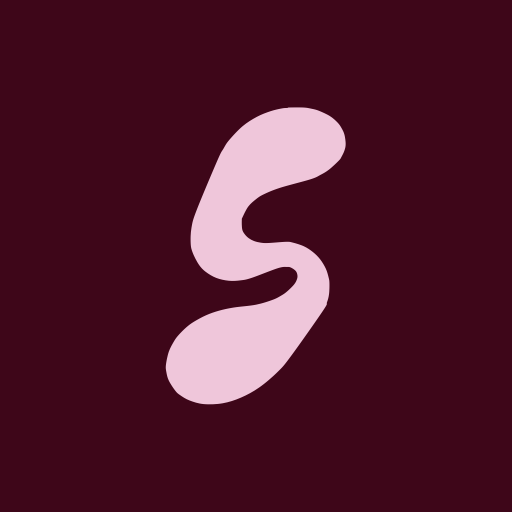
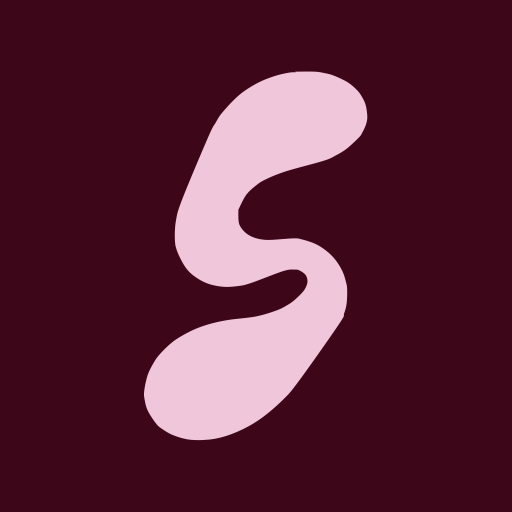
Alinear el contenido, agrandar el isotipo y suavizar el neutro
Cuatro ajustes pedidos tras revisar el rediseño.

Contenedor único. El navbar usaba 80rem y el hero 72rem, así que al centrarse
ambos el contenido del hero arrancaba 64px más adentro que el logotipo. En vez
de igualar el número en cada archivo —que es justo lo que permitió la deriva—
el ancho y el gutter se declaran una sola vez en `.contenedor` y todas las
secciones lo consumen. La flecha de bajar pasa a vivir dentro del contenedor:
colgaba de la sección a sangre y se pegaba al borde del viewport.

Neutro. El crema #F6EECF de la Propuesta 02 resultaba ácido en superficies
grandes; se sustituye por la arena #EEDABC de la Propuesta 01. Se conservan
burdeos, rosa y periwinkle: cambiar la paleta entera habría eliminado el
periwinkle, que es el color del isotipo. Sobre la arena, el vino da 12.36:1 y
el vino-suave 6.92:1.

Isotipo del hero. Gana bastante presencia, y su posición se escalona en cuatro
tramos en lugar de tres. Hacía falta un breakpoint en 1280px: por debajo el
contenedor todavía crece con el viewport y el titular llega hasta el centro,
donde la forma lo alcanzaba y dejaba el final del texto en rosa sobre
periwinkle (1.71:1). Holgura mínima medida: 38px a 768px.

En móvil la forma asomaba tan poco que no se leía como parte de la
composición; ahora entra en cuadro por el pie, por debajo del CTA.

Favicon. La "S" pasa del 58% al 72% de la caja: al tamaño real de una pestaña
la versión anterior se perdía.

Changed region(s): [[0.2812, 0.125, 0.7188, 0.875]]

diff --git a/styles/globals.css b/styles/globals.css
@@ -1,19 +1,22 @@
 @import "tailwindcss";
 
 /*
- * Paleta de la Propuesta 02 de identidad (Not Alias).
+ * Paleta de la Propuesta 02 de identidad (Not Alias), con el neutro tomado de
+ * la Propuesta 01.
  * Los hex se muestrearon del arte original, no se estimaron.
  * Los mismos valores viven en styles/_tokens.scss para los SCSS modules.
  */
 @theme {
   --color-vino: #3e0619;
   --color-rosa: #efc6da;
-  --color-crema: #f6eecf;
+  /* Arena de la Propuesta 01: el crema amarillento de la 02 resultaba ácido
+     en superficies grandes. */
+  --color-crema: #eedabc;
   --color-azul: #abbfd8;
 
   /*
    * El periwinkle es color de FORMA, nunca de texto sobre fondos claros:
-   * da 1.71:1 sobre rosa y 2.24:1 sobre crema, así que ni siquiera pasa el
+   * da 1.71:1 sobre rosa y 1.91:1 sobre la arena, así que ni siquiera pasa el
    * mínimo de texto grande. Sobre vino sí es legible (6.48:1).
    */
   --color-periwinkle: #9199f4;
@@ -24,6 +27,32 @@
 
   --font-titulo: var(--fuente-titulo), Georgia, serif;
   --font-cuerpo: var(--fuente-cuerpo), system-ui, sans-serif;
+}
+
+@layer components {
+  /*
+   * Contenedor único de la página.
+   *
+   * Todo lo que deba alinearse con el logotipo del navbar pasa por aquí. Antes
+   * cada sección repetía su propio `max-w-*` y su propio padding, y bastó con
+   * que el hero declarara 72rem frente a las 80rem del navbar para que el
+   * contenido arrancara 64px más adentro. Con una sola declaración esa deriva
+   * no puede volver a ocurrir.
+   *
+   * El padding lateral vive aquí y no en la sección, para que el color de
+   * fondo siga llegando a sangre.
+   */
+  .contenedor {
+    margin-inline: auto;
+    max-inline-size: 80rem;
+    padding-inline: 1.25rem;
+  }
+
+  @media (min-width: 48rem) {
+    .contenedor {
+      padding-inline: 2.5rem;
+    }
+  }
 }
 
 @layer base {

diff --git a/components/sections/Hero.module.scss b/components/sections/Hero.module.scss
@@ -27,21 +27,35 @@
    * columna libre a la derecha, así que se retira al pie y sale por el borde;
    * sólo a partir de lg, cuando sí sobra ancho, ocupa el costado completo.
    */
-  right: -30%;
-  bottom: -4%;
-  height: 38%;
+  // En móvil se ancla al pie y entra bastante en cuadro: antes asomaba tan
+  // poco que no se leía como parte de la composición.
+  right: -14%;
+  bottom: -2%;
+  height: 34%;
 
   @include md {
     top: 50%;
-    right: -16%;
+    right: -18%;
     bottom: auto;
-    height: 62%;
+    height: 68%;
     transform: translateY(-50%);
   }
 
   @include lg {
-    right: -2%;
-    height: 86%;
+    right: -16%;
+    height: 88%;
+  }
+
+  /*
+   * A partir de 1280px el contenedor deja de crecer y el sobrante se reparte
+   * a los lados, así que aquí sí hay sitio para que la forma ocupe casi todo
+   * el alto sin acercarse al titular. Por debajo se va retirando: entre 1024 y
+   * 1280 el texto llega hasta el centro y la "S" lo alcanzaría, dejando el
+   * final del titular en rosa sobre periwinkle (1.71:1).
+   */
+  @include xl {
+    right: -6%;
+    height: 104%;
   }
 }
 
@@ -49,15 +63,12 @@
   position: relative;
   display: flex;
   min-height: 100svh;
-  max-width: 72rem;
   flex-direction: column;
   justify-content: center;
-  margin-inline: auto;
-  padding: 7rem 1.5rem 9rem;
-
-  @include md {
-    padding-inline: 2.5rem;
-  }
+  // El ancho y el padding lateral los pone la clase .contenedor de
+  // globals.css, compartida con el navbar: así el logotipo del hero cae
+  // exactamente bajo el del navbar.
+  padding-block: 7rem 9rem;
 }
 
 .logotipo {
@@ -114,7 +125,8 @@
 .bajar {
   position: absolute;
   bottom: 3.5rem;
-  left: 1.5rem;
+  // Mismo gutter que .contenedor, para que caiga bajo el logotipo
+  left: 1.25rem;
   color: $rosa;
 
   @include md {

diff --git a/components/sections/Hero.tsx b/components/sections/Hero.tsx
@@ -29,7 +29,7 @@ export default function Hero() {
     <section className={styles.hero}>
       <Isotipo className={styles.marcaGigante} />
 
-      <div className={styles.contenido}>
+      <div className={`contenedor ${styles.contenido}`}>
         <div className={styles.aparece} style={retraso(0)}>
           {/*
             Dimensiones nativas del asset: el export está en `unoptimized`, así
@@ -70,18 +70,19 @@ export default function Hero() {
         <div className={`${styles.aparece} mt-10`} style={retraso(0.34)}>
           <BotonWhatsApp variante="claro" />
         </div>
-      </div>
 
-      {/* El centrado va en el contenedor: el keyframe anima transform y pisaría el -translate-x-1/2 */}
-      <div className={styles.bajar}>
-        <a
-          href="#sobre-mi"
-          className={styles.aparece}
-          style={retraso(0.5)}
-          aria-label="Ir a la sección Sobre mí"
-        >
-          <ArrowDown className={styles.flecha} aria-hidden="true" />
-        </a>
+        {/* Dentro del contenedor, no de la sección: sólo así cae bajo el
+            logotipo en vez de pegarse al borde del viewport. */}
+        <div className={styles.bajar}>
+          <a
+            href="#sobre-mi"
+            className={styles.aparece}
+            style={retraso(0.5)}
+            aria-label="Ir a la sección Sobre mí"
+          >
+            <ArrowDown className={styles.flecha} aria-hidden="true" />
+          </a>
+        </div>
       </div>
     </section>
   );

diff --git a/styles/_tokens.scss b/styles/_tokens.scss
@@ -2,7 +2,8 @@
 // Si cambia un hex aquí, cámbialo también allá.
 $vino: #3e0619;
 $rosa: #efc6da;
-$crema: #f6eecf;
+// Arena de la Propuesta 01, en lugar del crema amarillento de la 02
+$crema: #eedabc;
 $azul: #abbfd8;
 
 // Color de forma, no de texto: sobre fondos claros no alcanza el contraste
@@ -15,6 +16,7 @@ $rosa-palido: #f7e2ec;
 // Breakpoints alineados con los de Tailwind
 $bp-md: 48rem; // 768px
 $bp-lg: 64rem; // 1024px
+$bp-xl: 80rem; // 1280px — coincide con el ancho máximo de .contenedor
 
 @mixin md {
   @media (min-width: $bp-md) {
@@ -24,6 +26,12 @@ $bp-lg: 64rem; // 1024px
 
 @mixin lg {
   @media (min-width: $bp-lg) {
+    @content;
+  }
+}
+
+@mixin xl {
+  @media (min-width: $bp-xl) {
     @content;
   }
 }

diff --git a/components/sections/CallToAction.tsx b/components/sections/CallToAction.tsx
@@ -11,7 +11,8 @@ const ARCO = "M40,200 A360,90 0 0 1 760,200";
 export default function CallToAction() {
   return (
     <section className={styles.cta}>
-      <div className="mx-auto max-w-3xl px-6 pb-16 text-center md:pb-20">
+      <div className="contenedor pb-16 text-center md:pb-20">
+        <div className="mx-auto max-w-3xl">
         <Reveal>
           <svg
             className={styles.tituloCurvo}
@@ -48,6 +49,7 @@ export default function CallToAction() {
             </a>
           </div>
         </Reveal>
+        </div>
       </div>
     </section>
   );

diff --git a/components/sections/SobreMi.tsx b/components/sections/SobreMi.tsx
@@ -15,8 +15,8 @@ const valores = [
 
 export default function SobreMi() {
   return (
-    <section id="sobre-mi" className="bg-crema px-5 py-16 md:px-10 md:py-24">
-      <div className="mx-auto grid max-w-6xl items-center gap-14 lg:grid-cols-2 lg:gap-20">
+    <section id="sobre-mi" className="bg-crema py-16 md:py-24">
+      <div className="contenedor grid items-center gap-14 lg:grid-cols-2 lg:gap-20">
         <Reveal className={styles.collage}>
           <div className={styles.marco}>
             <Image

diff --git a/components/sections/Servicios.tsx b/components/sections/Servicios.tsx
@@ -31,8 +31,8 @@ const servicios: Servicio[] = [
 
 export default function Servicios() {
   return (
-    <section id="servicios" className="bg-rosa px-5 py-20 md:px-10 md:py-28">
-      <div className="mx-auto max-w-6xl">
+    <section id="servicios" className="bg-rosa py-20 md:py-28">
+      <div className="contenedor">
         <div className="text-center">
           <Reveal>
             <p className="text-[0.65rem] tracking-[0.3em] text-vino-suave uppercase">

diff --git a/components/layout/Footer.tsx b/components/layout/Footer.tsx
@@ -11,8 +11,8 @@ const servicios = [
 
 export default function Footer() {
   return (
-    <footer className="bg-vino px-5 pt-16 pb-8 text-crema md:px-10">
-      <div className="mx-auto max-w-7xl">
+    <footer className="bg-vino pt-16 pb-8 text-crema">
+      <div className="contenedor">
         <div className="grid gap-12 md:grid-cols-[1.2fr_1fr_1fr_1.2fr]">
           <div>
             {/* El lockup ya trae el tagline dibujado, así que aquí no hace

diff --git a/components/sections/Ubicacion.tsx b/components/sections/Ubicacion.tsx
@@ -11,8 +11,8 @@ const datos = [
 
 export default function Ubicacion() {
   return (
-    <section id="ubicacion" className="bg-crema px-5 py-20 md:px-10 md:py-28">
-      <div className="mx-auto max-w-6xl">
+    <section id="ubicacion" className="bg-crema py-20 md:py-28">
+      <div className="contenedor">
         <div className="grid gap-12 lg:grid-cols-[1fr_1.15fr] lg:items-center lg:gap-16">
           <div>
             <Reveal>

diff --git a/components/layout/Navbar.tsx b/components/layout/Navbar.tsx
@@ -114,7 +114,7 @@ export default function Navbar() {
         }`}
       >
         <nav
-          className="mx-auto flex max-w-7xl items-center justify-between px-5 py-3.5 md:px-10"
+          className="contenedor flex items-center justify-between py-3.5"
           aria-label="Navegación principal"
         >
           <Link
